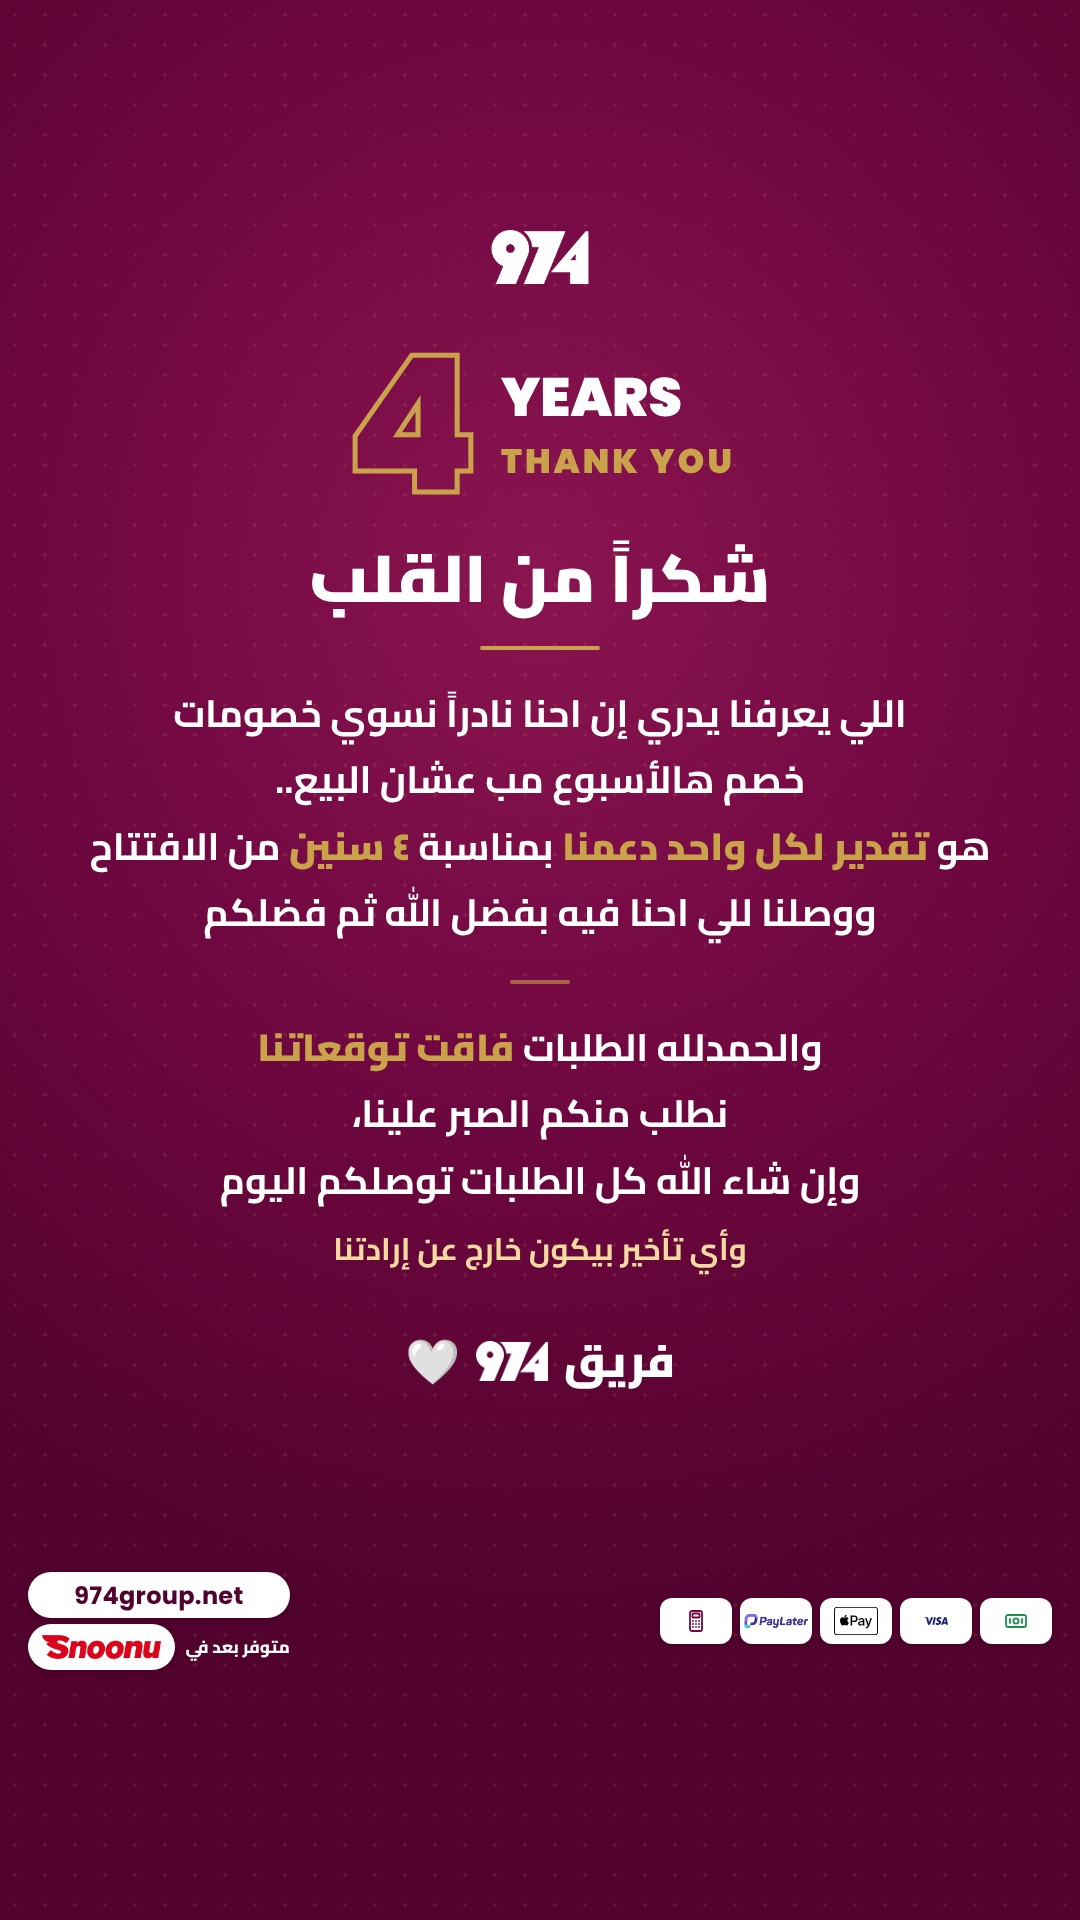
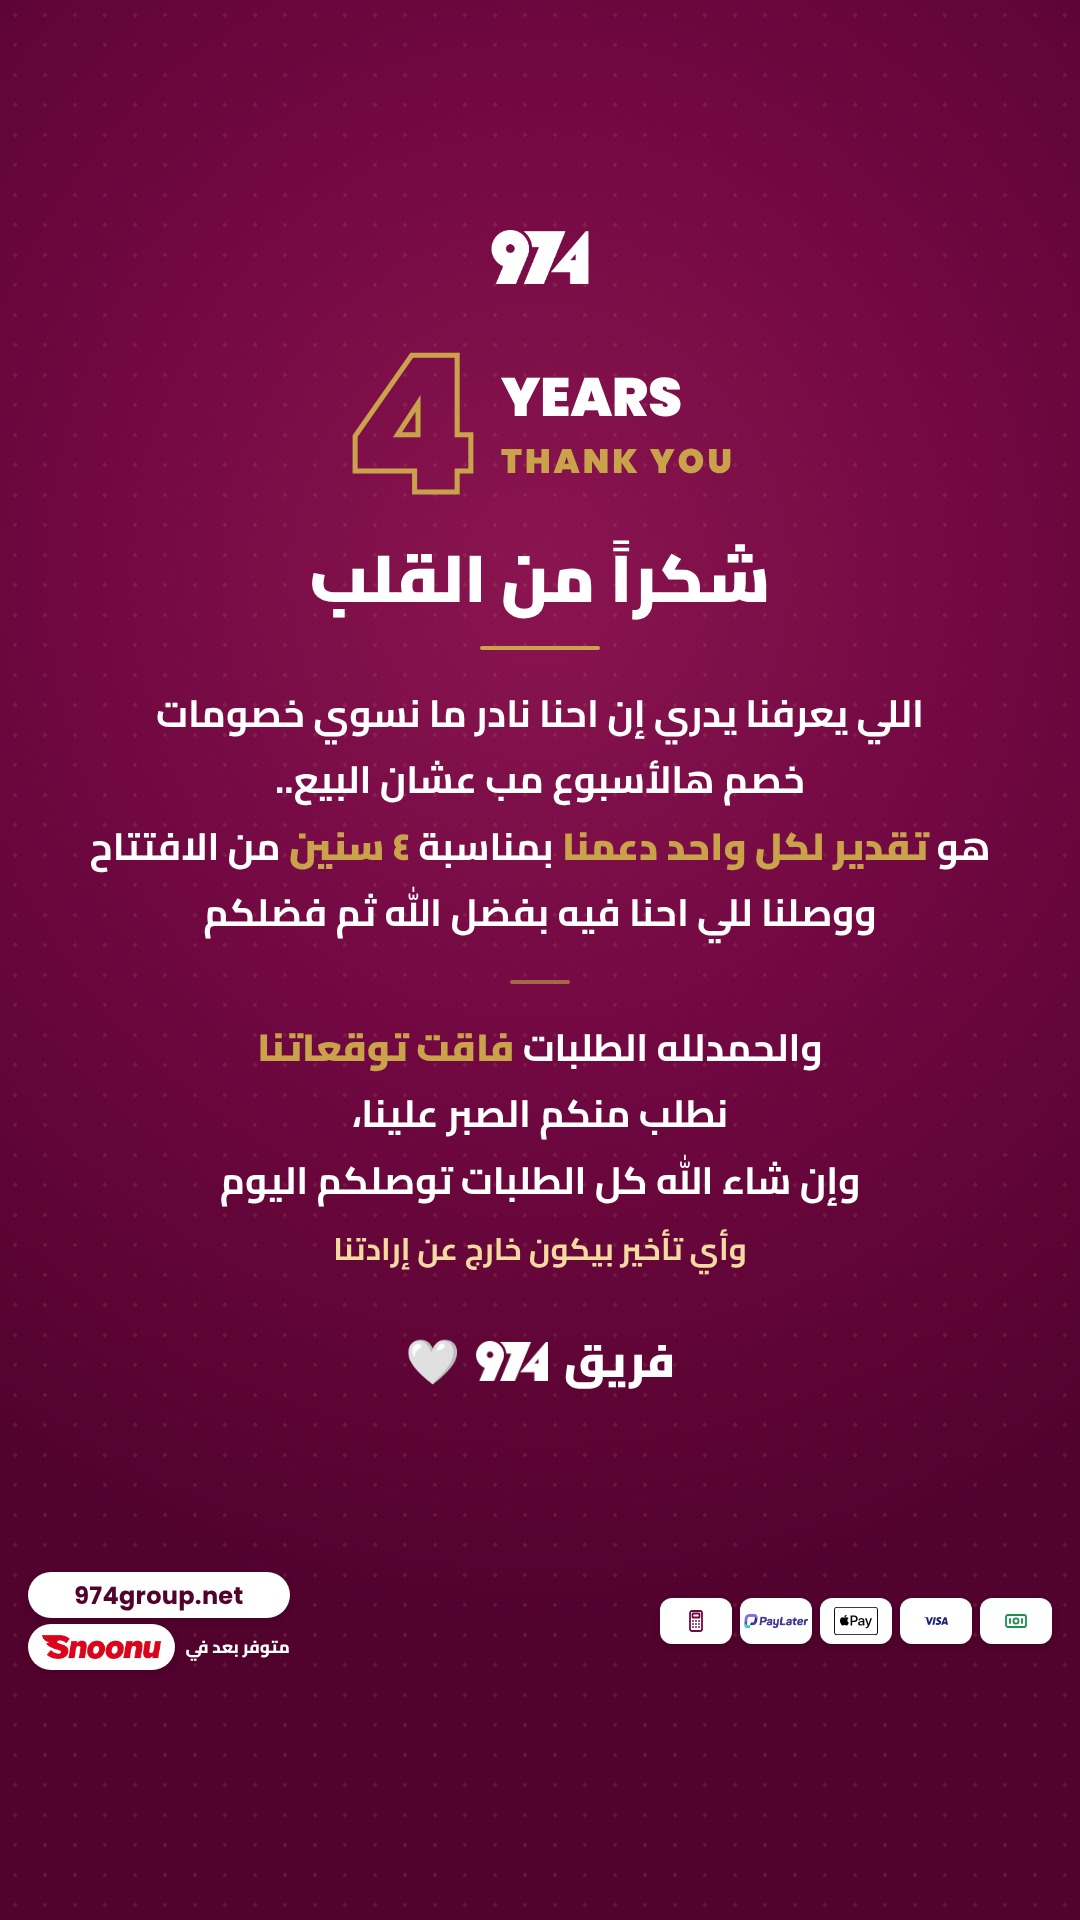
Thank-you story: wording
Claude-Session: https://claude.ai/code/session_01K6HDWNrArsGSJekW1VcEzV

Changed region(s): [[0.1528, 0.3438, 0.8556, 0.4062]]

diff --git a/posts/2026-11/anniversary-4/thanks.py b/posts/2026-11/anniversary-4/thanks.py
@@ -20,7 +20,7 @@ def page():
   <div style="font-weight:900;font-size:66px;margin-top:26px;line-height:1.25">شكراً من القلب</div>
   <div class="ln" style="margin-top:26px"></div>
   <div style="font-weight:700;font-size:38px;line-height:1.75;margin-top:30px">
-    اللي يعرفنا يدري إن احنا نادراً نسوي خصومات<br>
+    اللي يعرفنا يدري إن احنا نادر ما نسوي خصومات<br>
     خصم هالأسبوع مب عشان البيع..<br>
     هو <span style="color:{GOLD};font-weight:900">تقدير لكل واحد دعمنا</span> بمناسبة <span style="color:{GOLD};font-weight:900">٤ سنين</span> من الافتتاح<br>
     ووصلنا للي احنا فيه بفضل الله ثم فضلكم
